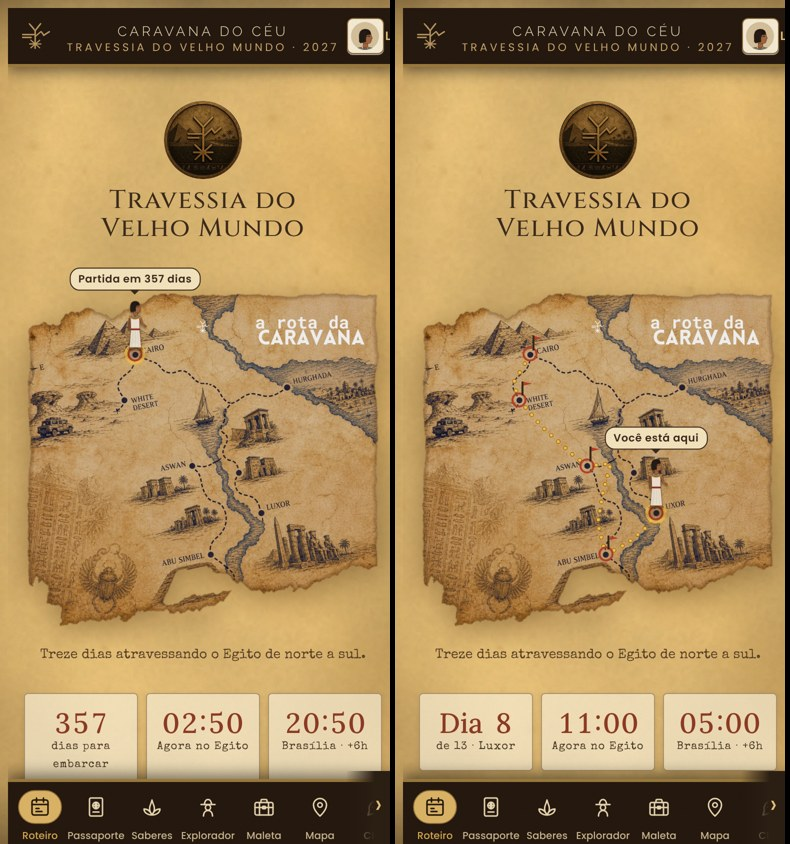
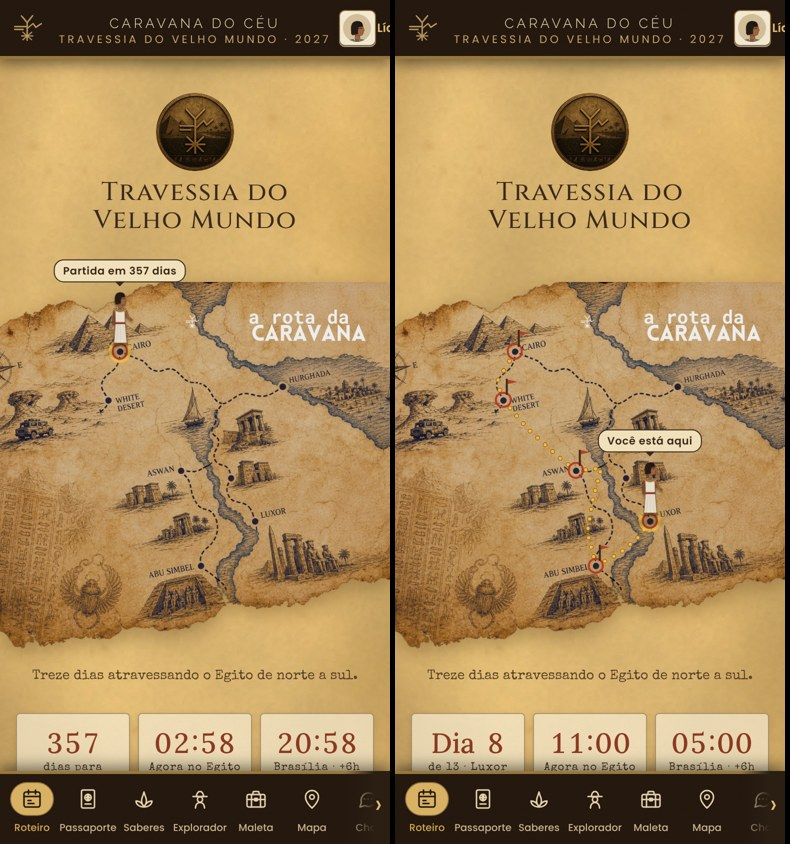
Egito: mapa da página inicial com as bordas exatamente como no material (rasgado em cima e embaixo, lados retos encostando na tela), sem selo nem barra de rolagem do print
Claude-Session: https://claude.ai/code/session_017RJGScnowdndvDzY2p9N3m

diff --git a/APP CARAVANA EGITO/app/caravana-do-ceu.html b/APP CARAVANA EGITO/app/caravana-do-ceu.html
@@ -2068,7 +2068,7 @@ html[data-tab="travessia"] :is(.view>.eyebrow.rule,.view>div>.eyebrow.rule)::aft
 html[data-tab="travessia"] .daychips{background:rgba(232,203,140,.82);border-bottom:2px solid #8C6A3A}
 html[data-tab="travessia"] .lidoscont{color:#5A4127;text-shadow:none}
 .mapahero{gap:12px;padding-top:12px}
-.mmundo{position:relative;width:calc(100% + 16px);margin:0 -8px;aspect-ratio:1298/1226;border-radius:4px;overflow:visible;
+.mmundo{position:relative;width:calc(100% + 16px);margin:0 -8px;aspect-ratio:1320/1242;border-radius:4px;overflow:visible;
   }
 .mmundo>img{position:absolute;inset:0;width:100%;height:100%;filter:drop-shadow(0 8px 14px rgba(70,40,10,.4))}
 @keyframes mmpulsa{from{transform:scale(.6);opacity:1}to{transform:scale(1.5);opacity:0}}
@@ -2183,6 +2183,11 @@ html[data-tab="explorador"] .controls .lab{color:#B5402A;text-shadow:none}
 .mmexp{width:12%}
 /* frase que gira embaixo do mapa: sempre uma linha só */
 .mapahero .intro{white-space:nowrap;font-size:clamp(11.5px,3.45vw,15px);min-height:0!important;margin-top:6px;max-width:100%;overflow:hidden;text-overflow:ellipsis}
+
+/* o mapa vai de ponta a ponta da tela, como no slide: os lados retos encostam na borda do celular */
+.mapahero .mmundo{width:100vw;margin-left:calc(50% - 50vw);margin-right:calc(50% - 50vw);max-width:none}
+.mmundo>img{filter:drop-shadow(0 6px 10px rgba(70,40,10,.35))}
+@media (min-width:600px){.mapahero .mmundo{width:100%;margin-left:0;margin-right:0}}
 </style>
 
 <div class="app">
@@ -2657,16 +2662,16 @@ setInterval(() => {
 // Sobre o mapa antigo da rota: uma trilha de pontinhos que acendem conforme a viagem avança, cada parada é uma "fase"
 // com o selo do lugar, e o explorador da pessoa anda pela trilha da última parada vista até a de hoje.
 // mapa da rota da caravana (a arte do material da viagem): paradas e trilha em pixels da imagem img/mapa-rota.webp
-const MAPA_W = 1298, MAPA_H = 1226;
+const MAPA_W = 1320, MAPA_H = 1242;
 const PARADAS = [
-  { n: 1, c: "Cairo", x: 403, y: 235, dias: [1, 2, 3], selo: "cairo" },
-  { n: 2, c: "Deserto Branco", x: 364, y: 400, dias: [4, 5], selo: "deserto-branco" },
-  { n: 3, c: "Aswan", x: 610, y: 638, dias: [6], selo: "aswan" },
-  { n: 4, c: "Abu Simbel", x: 677, y: 960, dias: [7], selo: "abu-simbel" },
-  { n: 5, c: "Luxor", x: 860, y: 809, dias: [8, 9], selo: "luxor" },
-  { n: 6, c: "Hurghada", x: 954, y: 354, dias: [10, 11, 12], selo: "mar-vermelho" },
-  { n: 7, c: "Cairo · volta para casa", x: 449, y: 269, dias: [13], selo: "piramides-gize" }];
-const TRECHOS = [[[403,235],[372,287],[342,337],[364,400]],[[364,400],[447,497],[557,597],[610,638]],[[610,638],[695,629],[667,733],[648,846],[677,960]],[[677,960],[757,917],[817,867],[860,809]],[[860,809],[808,742],[779,663],[732,563],[723,469],[752,402],[847,377],[954,354]],[[954,354],[847,377],[752,402],[637,357],[517,297],[449,269]]];
+  { n: 1, c: "Cairo", x: 406, y: 236, dias: [1, 2, 3], selo: "cairo" },
+  { n: 2, c: "Deserto Branco", x: 367, y: 401, dias: [4, 5], selo: "deserto-branco" },
+  { n: 3, c: "Aswan", x: 613, y: 639, dias: [6], selo: "aswan" },
+  { n: 4, c: "Abu Simbel", x: 680, y: 961, dias: [7], selo: "abu-simbel" },
+  { n: 5, c: "Luxor", x: 863, y: 810, dias: [8, 9], selo: "luxor" },
+  { n: 6, c: "Hurghada", x: 957, y: 355, dias: [10, 11, 12], selo: "mar-vermelho" },
+  { n: 7, c: "Cairo · volta para casa", x: 452, y: 270, dias: [13], selo: "piramides-gize" }];
+const TRECHOS = [[[406,236],[375,288],[345,338],[367,401]],[[367,401],[450,498],[560,598],[613,639]],[[613,639],[698,630],[670,734],[651,847],[680,961]],[[680,961],[760,918],[820,868],[863,810]],[[863,810],[811,743],[782,663],[735,564],[726,470],[755,403],[850,378],[957,355]],[[957,355],[850,378],[755,403],[640,358],[520,298],[452,270]]];
 function vMapaMundo(dias, hoje, f, abrir) {
   const W = MAPA_W, H = MAPA_H, dHoje = dias.find(d => d.iso === hoje), fim = hoje > dias[dias.length - 1].iso;
   const atual = fim ? 6 : dHoje ? Math.max(0, PARADAS.findIndex(q => q.dias.includes(dHoje.n))) : 0;
@@ -2692,6 +2697,8 @@ function vMapaMundo(dias, hoje, f, abrir) {
   // pontinhos da trilha: acesos até a parada de hoje, apagados dali em diante
   requestAnimationFrame(() => {
     if (!svg.isConnected) return;
+    // no celular o mapa encosta nas duas bordas da tela, como no slide
+    if (innerWidth < 600) { const r = box.getBoundingClientRect(), ml = parseFloat(getComputedStyle(box).marginLeft) || 0; box.style.marginLeft = (ml - r.left) + "px"; box.style.width = innerWidth + "px"; }
     segs.forEach((s, i) => { const len = s.getTotalLength(), n = Math.max(3, Math.round(len / 34));
       for (let k = 1; k < n; k++) { const pt = s.getPointAtLength(len * k / n), aceso = i < atual;
         const c = document.createElementNS(NS, "circle"); c.setAttribute("cx", pt.x); c.setAttribute("cy", pt.y); c.setAttribute("r", aceso ? 7 : 5.5);

diff --git a/APP CARAVANA EGITO/tools/egito/js/mapa-mundo.js b/APP CARAVANA EGITO/tools/egito/js/mapa-mundo.js
@@ -2,16 +2,16 @@
 // Sobre o mapa antigo da rota: uma trilha de pontinhos que acendem conforme a viagem avança, cada parada é uma "fase"
 // com o selo do lugar, e o explorador da pessoa anda pela trilha da última parada vista até a de hoje.
 // mapa da rota da caravana (a arte do material da viagem): paradas e trilha em pixels da imagem img/mapa-rota.webp
-const MAPA_W = 1298, MAPA_H = 1226;
+const MAPA_W = 1320, MAPA_H = 1242;
 const PARADAS = [
-  { n: 1, c: "Cairo", x: 403, y: 235, dias: [1, 2, 3], selo: "cairo" },
-  { n: 2, c: "Deserto Branco", x: 364, y: 400, dias: [4, 5], selo: "deserto-branco" },
-  { n: 3, c: "Aswan", x: 610, y: 638, dias: [6], selo: "aswan" },
-  { n: 4, c: "Abu Simbel", x: 677, y: 960, dias: [7], selo: "abu-simbel" },
-  { n: 5, c: "Luxor", x: 860, y: 809, dias: [8, 9], selo: "luxor" },
-  { n: 6, c: "Hurghada", x: 954, y: 354, dias: [10, 11, 12], selo: "mar-vermelho" },
-  { n: 7, c: "Cairo · volta para casa", x: 449, y: 269, dias: [13], selo: "piramides-gize" }];
-const TRECHOS = [[[403,235],[372,287],[342,337],[364,400]],[[364,400],[447,497],[557,597],[610,638]],[[610,638],[695,629],[667,733],[648,846],[677,960]],[[677,960],[757,917],[817,867],[860,809]],[[860,809],[808,742],[779,663],[732,563],[723,469],[752,402],[847,377],[954,354]],[[954,354],[847,377],[752,402],[637,357],[517,297],[449,269]]];
+  { n: 1, c: "Cairo", x: 406, y: 236, dias: [1, 2, 3], selo: "cairo" },
+  { n: 2, c: "Deserto Branco", x: 367, y: 401, dias: [4, 5], selo: "deserto-branco" },
+  { n: 3, c: "Aswan", x: 613, y: 639, dias: [6], selo: "aswan" },
+  { n: 4, c: "Abu Simbel", x: 680, y: 961, dias: [7], selo: "abu-simbel" },
+  { n: 5, c: "Luxor", x: 863, y: 810, dias: [8, 9], selo: "luxor" },
+  { n: 6, c: "Hurghada", x: 957, y: 355, dias: [10, 11, 12], selo: "mar-vermelho" },
+  { n: 7, c: "Cairo · volta para casa", x: 452, y: 270, dias: [13], selo: "piramides-gize" }];
+const TRECHOS = [[[406,236],[375,288],[345,338],[367,401]],[[367,401],[450,498],[560,598],[613,639]],[[613,639],[698,630],[670,734],[651,847],[680,961]],[[680,961],[760,918],[820,868],[863,810]],[[863,810],[811,743],[782,663],[735,564],[726,470],[755,403],[850,378],[957,355]],[[957,355],[850,378],[755,403],[640,358],[520,298],[452,270]]];
 function vMapaMundo(dias, hoje, f, abrir) {
   const W = MAPA_W, H = MAPA_H, dHoje = dias.find(d => d.iso === hoje), fim = hoje > dias[dias.length - 1].iso;
   const atual = fim ? 6 : dHoje ? Math.max(0, PARADAS.findIndex(q => q.dias.includes(dHoje.n))) : 0;
@@ -37,6 +37,8 @@ function vMapaMundo(dias, hoje, f, abrir) {
   // pontinhos da trilha: acesos até a parada de hoje, apagados dali em diante
   requestAnimationFrame(() => {
     if (!svg.isConnected) return;
+    // no celular o mapa encosta nas duas bordas da tela, como no slide
+    if (innerWidth < 600) { const r = box.getBoundingClientRect(), ml = parseFloat(getComputedStyle(box).marginLeft) || 0; box.style.marginLeft = (ml - r.left) + "px"; box.style.width = innerWidth + "px"; }
     segs.forEach((s, i) => { const len = s.getTotalLength(), n = Math.max(3, Math.round(len / 34));
       for (let k = 1; k < n; k++) { const pt = s.getPointAtLength(len * k / n), aceso = i < atual;
         const c = document.createElementNS(NS, "circle"); c.setAttribute("cx", pt.x); c.setAttribute("cy", pt.y); c.setAttribute("r", aceso ? 7 : 5.5);

diff --git a/APP CARAVANA EGITO/tools/egito/tema-gibi.css b/APP CARAVANA EGITO/tools/egito/tema-gibi.css
@@ -194,7 +194,7 @@ html[data-tab="travessia"] :is(.view>.eyebrow.rule,.view>div>.eyebrow.rule)::aft
 html[data-tab="travessia"] .daychips{background:rgba(232,203,140,.82);border-bottom:2px solid #8C6A3A}
 html[data-tab="travessia"] .lidoscont{color:#5A4127;text-shadow:none}
 .mapahero{gap:12px;padding-top:12px}
-.mmundo{position:relative;width:calc(100% + 16px);margin:0 -8px;aspect-ratio:1298/1226;border-radius:4px;overflow:visible;
+.mmundo{position:relative;width:calc(100% + 16px);margin:0 -8px;aspect-ratio:1320/1242;border-radius:4px;overflow:visible;
   }
 .mmundo>img{position:absolute;inset:0;width:100%;height:100%;filter:drop-shadow(0 8px 14px rgba(70,40,10,.4))}
 @keyframes mmpulsa{from{transform:scale(.6);opacity:1}to{transform:scale(1.5);opacity:0}}
@@ -309,3 +309,8 @@ html[data-tab="explorador"] .controls .lab{color:#B5402A;text-shadow:none}
 .mmexp{width:12%}
 /* frase que gira embaixo do mapa: sempre uma linha só */
 .mapahero .intro{white-space:nowrap;font-size:clamp(11.5px,3.45vw,15px);min-height:0!important;margin-top:6px;max-width:100%;overflow:hidden;text-overflow:ellipsis}
+
+/* o mapa vai de ponta a ponta da tela, como no slide: os lados retos encostam na borda do celular */
+.mapahero .mmundo{width:100vw;margin-left:calc(50% - 50vw);margin-right:calc(50% - 50vw);max-width:none}
+.mmundo>img{filter:drop-shadow(0 6px 10px rgba(70,40,10,.35))}
+@media (min-width:600px){.mapahero .mmundo{width:100%;margin-left:0;margin-right:0}}

diff --git a/APP CARAVANA EGITO/tools/egito/recortar-mapa-rota.py b/APP CARAVANA EGITO/tools/egito/recortar-mapa-rota.py
@@ -1,0 +1,26 @@
+# Recorta o mapa "a rota da Caravana" do print do material (referencias/mapa-game/mapa-rota-caravana-pdf.png)
+# mantendo EXATAMENTE as bordas rasgadas originais (em cima e embaixo) e os lados retos do slide.
+# Tira só o selo do canto e a barra de rolagem do print, cobrindo com papel liso do próprio mapa.
+import pathlib
+import numpy as np
+from PIL import Image
+from scipy import ndimage
+raiz = pathlib.Path(__file__).resolve().parents[2]
+im = Image.open(raiz / "referencias/mapa-game/mapa-rota-caravana-pdf.png").convert("RGB")
+a = np.asarray(im, float)[374:1660].copy(); H, W = a.shape[:2]   # 374: primeira linha do slide do mapa
+yy, xx = np.mgrid[0:H, 0:W]
+pat = a[522:632, 420:530].copy()
+lin = np.concatenate([pat, pat[:, ::-1]], axis=1); bloco = np.concatenate([lin, lin[::-1]], axis=0)
+camada = np.tile(bloco, (int(np.ceil(H / bloco.shape[0])), int(np.ceil(W / bloco.shape[1])), 1))[:H, :W]
+alvo = (((xx - 1258) ** 2 + (yy - 73) ** 2 < 54 ** 2) | ((xx >= W - 30) & (yy < 150))).astype(float)
+peso = ndimage.gaussian_filter(alvo, 7)[..., None]
+a = a * (1 - peso) + camada * peso
+lum = a.mean(2)
+lab, n = ndimage.label(lum < 72)
+ids = set(np.unique(np.concatenate([lab[0], lab[-1]]))) - {0}; tam = np.bincount(lab.ravel())
+fundo = np.isin(lab, [i for i in ids if tam[i] > 3000])          # só o fundo escuro de cima e de baixo
+m = ndimage.binary_opening(~fundo, iterations=1)
+lab2, _ = ndimage.label(m); m = ndimage.binary_fill_holes(lab2 == np.argmax(np.bincount(lab2.ravel())[1:]) + 1)
+alpha = ndimage.gaussian_filter(m.astype(float), .8) * 255
+Image.fromarray(np.dstack([np.clip(a, 0, 255).astype("uint8"), alpha.clip(0, 255).astype("uint8")]), "RGBA").crop((0, 0, 1320, 1242)).save(raiz / "app/img/mapa-rota.webp", "WEBP", quality=92)
+print("ok")
